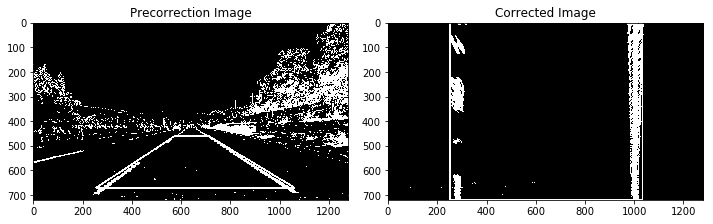
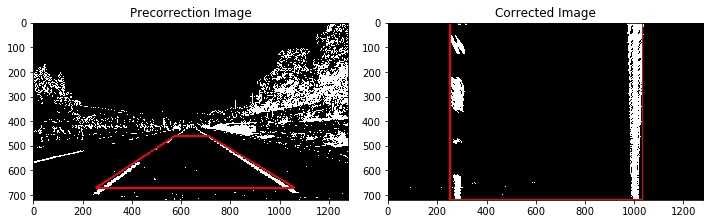
Adding lane finding and drawing functionality to detect_lines.py

Changed region(s): [[0.6171, 0.0938, 0.9257, 0.9062], [0.1234, 0.5938, 0.432, 0.875], [0.3394, 0.6875, 0.3703, 0.75]]

diff --git a/detect_lines.py b/detect_lines.py
@@ -12,8 +12,7 @@ import matplotlib.image as mpimg
 import pickle
 import glob
 
-def correct_image(img, visualize=False):
-        
+def undistort_image(img, visualize=False):
     # Read in the saved camera matrix and distortion coefficients
     cam_pickle = pickle.load( open( "cam_pickle.p", "rb" ) )
     mtx = cam_pickle["mtx"]
@@ -21,6 +20,24 @@ def correct_image(img, visualize=False):
 
     undistort_img = cv2.undistort(img, mtx, dist, None, mtx)
     
+    if visualize == True:
+        idx = 1
+        plt.figure(figsize=(10, 10))
+        
+        plt.subplot(rows, cols, idx)
+        plt.imshow(img)
+        plt.title('Original Image')
+        
+        idx+=1
+        plt.subplot(rows, cols, idx)
+        plt.imshow(undistort_img)
+        plt.title('Undistrorted Image')
+        plt.tight_layout()
+        
+    return undistort_img
+
+def correct_image(img, visualize=False):
+            
     # Creating mask area
     ROI_TOP_LEFT_X = 575
     ROI_TOP_RIGHT_X = 570
@@ -28,7 +45,7 @@ def correct_image(img, visualize=False):
     ROI_BOTTOM_RIGHT_X = 220
     ROI_TOP_Y = 460
     ROI_BOTTOM_Y = 50
-    imshape = undistort_img.shape
+    imshape = img.shape
 
     src = np.float32([(ROI_BOTTOM_LEFT_X,imshape[0]-ROI_BOTTOM_Y),
                       (ROI_TOP_LEFT_X, ROI_TOP_Y), 
@@ -43,49 +60,33 @@ def correct_image(img, visualize=False):
                       [imshape[1]-offset, 0], 
                       [imshape[1]-offset, imshape[0]]])
     M = cv2.getPerspectiveTransform(src, dst)
-    corrected_img = cv2.warpPerspective(undistort_img, M, img_size, flags=cv2.INTER_LINEAR)
+    corrected_img = cv2.warpPerspective(img, M, img_size, flags=cv2.INTER_LINEAR)
     
     if visualize == True:
         # Visualize before and after undistortion is applied
-        if len(imshape) > 2:
-            color_map='brg'
-            line_color = (255,0,0)
-        else:
-            color_map='gray'
-            line_color = (1)
+        line_color = (255,0,0)
         rows = 1
         cols = 2
         idx = 1
         plt.figure(figsize=(10, 10))
         
         plt.subplot(rows, cols, idx)
-        plt.imshow(img, cmap=color_map)
-        plt.title('Original Image')
-        
-        idx+=1
-        plt.subplot(rows, cols, idx)
-        plt.imshow(undistort_img, cmap=color_map)
-        plt.title('Distrorted Image')
-        plt.tight_layout()
-
-        idx = 1
-        plt.figure(figsize=(10, 10))
-        
-        plt.subplot(rows, cols, idx)
         verticies = np.int32(src)
+        undistort_img = np.dstack((img, img, img))*255
         masked_img = cv2.polylines(undistort_img, [verticies], True, line_color , 5)
-        plt.imshow(masked_img, cmap=color_map)
+        plt.imshow(masked_img)
         plt.title('Precorrection Image')
         
         idx+=1
         plt.subplot(rows, cols, idx)
         verticies = np.int32(dst)
-        corrected_img = cv2.polylines(corrected_img, [verticies], True, line_color, 5)
-        plt.imshow(corrected_img, cmap=color_map)
+        corrected_img_vis = np.dstack((corrected_img, corrected_img, corrected_img))*255
+        corrected_img_vis = cv2.polylines(corrected_img_vis, [verticies], True, line_color, 5)
+        plt.imshow(corrected_img_vis)
         plt.title('Corrected Image')
         plt.tight_layout()
            
-    return corrected_img
+    return corrected_img, M
 
 def white_color_enhance(img):
     lower = np.uint8([  0, 200,   0])
@@ -223,21 +224,232 @@ def get_thresholded_img(img, visualize=False):
         plt.title('Combined Thresholded Image')
     
     return combined
+
+def find_initial_lanes(img, visualize=False):
+
+    # Take a histogram of the bottom half of the image
+    histogram = np.sum(img[img.shape[0]/2:,:], axis=0)
+    # Create an output image to draw on and  visualize the result
+    out_img = np.dstack((img, img, img))*255
+    # Find the peak of the left and right halves of the histogram
+    # These will be the starting point for the left and right lines
+    midpoint = np.int(histogram.shape[0]/2)
+    leftx_base = np.argmax(histogram[:midpoint])
+    rightx_base = np.argmax(histogram[midpoint:]) + midpoint
+    
+    # Choose the number of sliding windows
+    nwindows = 9
+    # Set height of windows
+    window_height = np.int(out_img.shape[0]/nwindows)
+    # Identify the x and y positions of all nonzero pixels in the image
+    nonzero = out_img.nonzero()
+    nonzeroy = np.array(nonzero[0])
+    nonzerox = np.array(nonzero[1])
+    # Current positions to be updated for each window
+    leftx_current = leftx_base
+    rightx_current = rightx_base
+    # Set the width of the windows +/- margin
+    margin = 100
+    # Set minimum number of pixels found to recenter window
+    minpix = 50
+    # Create empty lists to receive left and right lane pixel indices
+    left_lane_inds = []
+    right_lane_inds = []
+    
+    # Step through the windows one by one
+    for window in range(nwindows):
+        # Identify window boundaries in x and y (and right and left)
+        win_y_low = out_img.shape[0] - (window+1)*window_height
+        win_y_high = out_img.shape[0] - window*window_height
+        win_xleft_low = leftx_current - margin
+        win_xleft_high = leftx_current + margin
+        win_xright_low = rightx_current - margin
+        win_xright_high = rightx_current + margin
+        # Draw the windows on the visualization image
+        cv2.rectangle(out_img,(win_xleft_low,win_y_low),(win_xleft_high,win_y_high),(0,255,0), 2) 
+        cv2.rectangle(out_img,(win_xright_low,win_y_low),(win_xright_high,win_y_high),(0,255,0), 2) 
+        # Identify the nonzero pixels in x and y within the window
+        good_left_inds = ((nonzeroy >= win_y_low) & (nonzeroy < win_y_high) & (nonzerox >= win_xleft_low) & (nonzerox < win_xleft_high)).nonzero()[0]
+        good_right_inds = ((nonzeroy >= win_y_low) & (nonzeroy < win_y_high) & (nonzerox >= win_xright_low) & (nonzerox < win_xright_high)).nonzero()[0]
+        # Append these indices to the lists
+        left_lane_inds.append(good_left_inds)
+        right_lane_inds.append(good_right_inds)
+        # If you found > minpix pixels, recenter next window on their mean position
+        if len(good_left_inds) > minpix:
+            leftx_current = np.int(np.mean(nonzerox[good_left_inds]))
+        if len(good_right_inds) > minpix:        
+            rightx_current = np.int(np.mean(nonzerox[good_right_inds]))
+    
+    # Concatenate the arrays of indices
+    left_lane_inds = np.concatenate(left_lane_inds)
+    right_lane_inds = np.concatenate(right_lane_inds)
+    
+    # Extract left and right line pixel positions
+    leftx = nonzerox[left_lane_inds]
+    lefty = nonzeroy[left_lane_inds] 
+    rightx = nonzerox[right_lane_inds]
+    righty = nonzeroy[right_lane_inds] 
+    
+    # Fit a second order polynomial to each
+    left_fit = np.polyfit(lefty, leftx, 2)
+    right_fit = np.polyfit(righty, rightx, 2)
+    ploty = np.linspace(0, out_img.shape[0]-1, out_img.shape[0] )
+    
+    if visualize == True:
+        #Generate x and y values for plotting
+
+        plt.figure(figsize=(10, 10))      
+        plt.title("Histogram of points (lower half of image)")
+        histogram = np.sum(img[img.shape[0]//2:,:], axis=0)
+        plt.plot(histogram)
+
+        plt.figure(figsize=(10, 10)) 
+        plt.title("Lanes found")
+        left_fitx = left_fit[0]*ploty**2 + left_fit[1]*ploty + left_fit[2]
+        right_fitx = right_fit[0]*ploty**2 + right_fit[1]*ploty + right_fit[2]
+        
+        out_img[nonzeroy[left_lane_inds], nonzerox[left_lane_inds]] = [255, 0, 0]
+        out_img[nonzeroy[right_lane_inds], nonzerox[right_lane_inds]] = [0, 0, 255]
+        plt.imshow(out_img)
+        plt.plot(left_fitx, ploty, color='yellow')
+        plt.plot(right_fitx, ploty, color='yellow')
+        plt.xlim(0, 1280)
+        plt.ylim(720, 0)
+    
+    return left_fit, right_fit, ploty
+
+def find_next_lanes(img, left_fit, right_fit, visualize=False):
+    nonzero = img.nonzero()
+    nonzeroy = np.array(nonzero[0])
+    nonzerox = np.array(nonzero[1])
+    margin = 100
+    left_lane_inds = ((nonzerox > (left_fit[0]*(nonzeroy**2) + left_fit[1]*nonzeroy + left_fit[2] - margin)) & (nonzerox < (left_fit[0]*(nonzeroy**2) + left_fit[1]*nonzeroy + left_fit[2] + margin))) 
+    right_lane_inds = ((nonzerox > (right_fit[0]*(nonzeroy**2) + right_fit[1]*nonzeroy + right_fit[2] - margin)) & (nonzerox < (right_fit[0]*(nonzeroy**2) + right_fit[1]*nonzeroy + right_fit[2] + margin)))  
+    
+    # Again, extract left and right line pixel positions
+    leftx = nonzerox[left_lane_inds]
+    lefty = nonzeroy[left_lane_inds] 
+    rightx = nonzerox[right_lane_inds]
+    righty = nonzeroy[right_lane_inds]
+    # Fit a second order polynomial to each
+    left_fit = np.polyfit(lefty, leftx, 2)
+    right_fit = np.polyfit(righty, rightx, 2)
+    # Generate x and y values for plotting
+    ploty = np.linspace(0, img.shape[0]-1, img.shape[0] )
+    left_fitx = left_fit[0]*ploty**2 + left_fit[1]*ploty + left_fit[2]
+    right_fitx = right_fit[0]*ploty**2 + right_fit[1]*ploty + right_fit[2]
+    
+    if visualize == True:
+        plt.figure(figsize=(10, 10))
+        # Create an image to draw on and an image to show the selection window
+        out_img = np.dstack((img, img, img))*255
+        window_img = np.zeros_like(out_img)
+        # Color in left and right line pixels
+        out_img[nonzeroy[left_lane_inds], nonzerox[left_lane_inds]] = [255, 0, 0]
+        out_img[nonzeroy[right_lane_inds], nonzerox[right_lane_inds]] = [0, 0, 255]
+        
+        # Generate a polygon to illustrate the search window area
+        # And recast the x and y points into usable format for cv2.fillPoly()
+        left_line_window1 = np.array([np.transpose(np.vstack([left_fitx-margin, ploty]))])
+        left_line_window2 = np.array([np.flipud(np.transpose(np.vstack([left_fitx+margin, ploty])))])
+        left_line_pts = np.hstack((left_line_window1, left_line_window2))
+        right_line_window1 = np.array([np.transpose(np.vstack([right_fitx-margin, ploty]))])
+        right_line_window2 = np.array([np.flipud(np.transpose(np.vstack([right_fitx+margin, ploty])))])
+        right_line_pts = np.hstack((right_line_window1, right_line_window2))
+        
+        # Draw the lane onto the warped blank image
+        cv2.fillPoly(window_img, np.int_([left_line_pts]), (0,255, 0))
+        cv2.fillPoly(window_img, np.int_([right_line_pts]), (0,255, 0))
+        result = cv2.addWeighted(out_img, 1, window_img, 0.3, 0)
+        plt.imshow(result)
+        plt.plot(left_fitx, ploty, color='yellow')
+        plt.plot(right_fitx, ploty, color='yellow')
+        plt.xlim(0, 1280)
+        plt.ylim(720, 0)
+    
+    return left_fit, right_fit, ploty
+
+def calc_curvature(left_fit, right_fit, ploty):
+    
+    # Define y-value where we want radius of curvature
+    # I'll choose the maximum y-value, corresponding to the bottom of the image
+    left_fit = np.asarray(left_fit)
+    y_eval = np.max(ploty)
+    #left_curverad = ((1 + (2*left_fit[0]*y_eval + left_fit[1])**2)**1.5) / np.absolute(2*left_fit[0])
+    #right_curverad = ((1 + (2*right_fit[0]*y_eval + right_fit[1])**2)**1.5) / np.absolute(2*right_fit[0])
+    #print(left_curverad, 'm', right_curverad, 'm')
+   
+    # Define conversions in x and y from pixels space to meters
+    ym_per_pix = 30/720 # meters per pixel in y dimension
+    xm_per_pix = 3.7/700 # meters per pixel in x dimension
+    
+    # Fit new polynomials to x,y in world space
+    left_fitx = left_fit[0]*ploty**2 + left_fit[1]*ploty + left_fit[2]
+    right_fitx = right_fit[0]*ploty**2 + right_fit[1]*ploty + right_fit[2]
+    left_fit_cr = np.polyfit(ploty*ym_per_pix, left_fitx*xm_per_pix, 2)
+    right_fit_cr = np.polyfit(ploty*ym_per_pix, right_fitx*xm_per_pix, 2)
+    # Calculate the new radii of curvature
+    left_curverad_m = ((1 + (2*left_fit_cr[0]*y_eval*ym_per_pix + left_fit_cr[1])**2)**1.5) / np.absolute(2*left_fit_cr[0])
+    right_curverad_m = ((1 + (2*right_fit_cr[0]*y_eval*ym_per_pix + right_fit_cr[1])**2)**1.5) / np.absolute(2*right_fit_cr[0])
+    # Now our radius of curvature is in meters
+    #print(left_curverad_m, 'm', right_curverad_m, 'm')
+    return left_curverad_m, right_curverad_m
+
+
+
+def draw_result_raw_image(img, binary_img, M, left_fit, right_fit, ploty, left_curverad_m, right_curverad_m):
+    
+    Minv = np.linalg.inv(M)
+    left_fitx = left_fit[0]*ploty**2 + left_fit[1]*ploty + left_fit[2]
+    right_fitx = right_fit[0]*ploty**2 + right_fit[1]*ploty + right_fit[2]
+    
+    # Create an image to draw the lines on
+    warp_zero = np.zeros_like(binary_img).astype(np.uint8)
+    color_warp = np.dstack((warp_zero, warp_zero, warp_zero))
+    
+    # Recast the x and y points into usable format for cv2.fillPoly()
+    pts_left = np.array([np.transpose(np.vstack([left_fitx, ploty]))])
+    pts_right = np.array([np.flipud(np.transpose(np.vstack([right_fitx, ploty])))])
+    pts = np.hstack((pts_left, pts_right))
+    
+    # Draw the lane onto the warped blank image
+    cv2.fillPoly(color_warp, np.int_([pts]), (0,255, 0))
+    
+    # Warp the blank back to original image space using inverse perspective matrix (Minv)
+    newwarp = cv2.warpPerspective(color_warp, Minv, (img.shape[1], img.shape[0])) 
+    # Combine the result with the original image
+    result = cv2.addWeighted(img, 1, newwarp, 0.3, 0)
+    # Write some Text
+    font = cv2.FONT_HERSHEY_SIMPLEX
+    cv2.putText(result,'Radius of Curvature: Left {0:.2f}m, Right {1:.2f}m'.format(left_curverad_m, right_curverad_m),(200,50), font, 1,(255,255,255),2)
+    plt.figure(figsize=(10, 10))
+    plt.imshow(result)
+    
+
+        
                 
 
-visualize = True
+visualize = False
 # Make a list of test images
-images = glob.glob('test_images/straight_lines*.jpg')
+images = glob.glob('test_images/straight*.jpg')
 
 for img_count, fname in enumerate(images):
-    img = mpimg.imread(fname)
-    color_binary = extract_hls_features(img, False)
-    thresh_binary = get_thresholded_img(img, False)
+    img                                 = mpimg.imread(fname)
+    undistort_img                       = undistort_image(img, False)
+    color_binary                        = extract_hls_features(undistort_img, False)
+    thresh_binary                       = get_thresholded_img(undistort_img, False)
     
-    combined = np.zeros_like(thresh_binary)
+    combined                            = np.zeros_like(thresh_binary)
     combined[(color_binary == 1) | (thresh_binary == 1)] = 1
     
-    corrected_img = correct_image(combined, False)
+    corrected_img, M                 = correct_image(combined, False)
+    left_fit, right_fit, ploty          = find_initial_lanes(corrected_img, False)
+    left_fit, right_fit, ploty          = find_next_lanes(corrected_img, left_fit, right_fit, False)
+    left_curverad_m, right_curverad_m   = calc_curvature(left_fit, right_fit, ploty)
+    
+    draw_result_raw_image(undistort_img, corrected_img, 
+                          M, left_fit, right_fit, ploty, 
+                          left_curverad_m, right_curverad_m)
     
     if visualize == True:
         rows = 1
